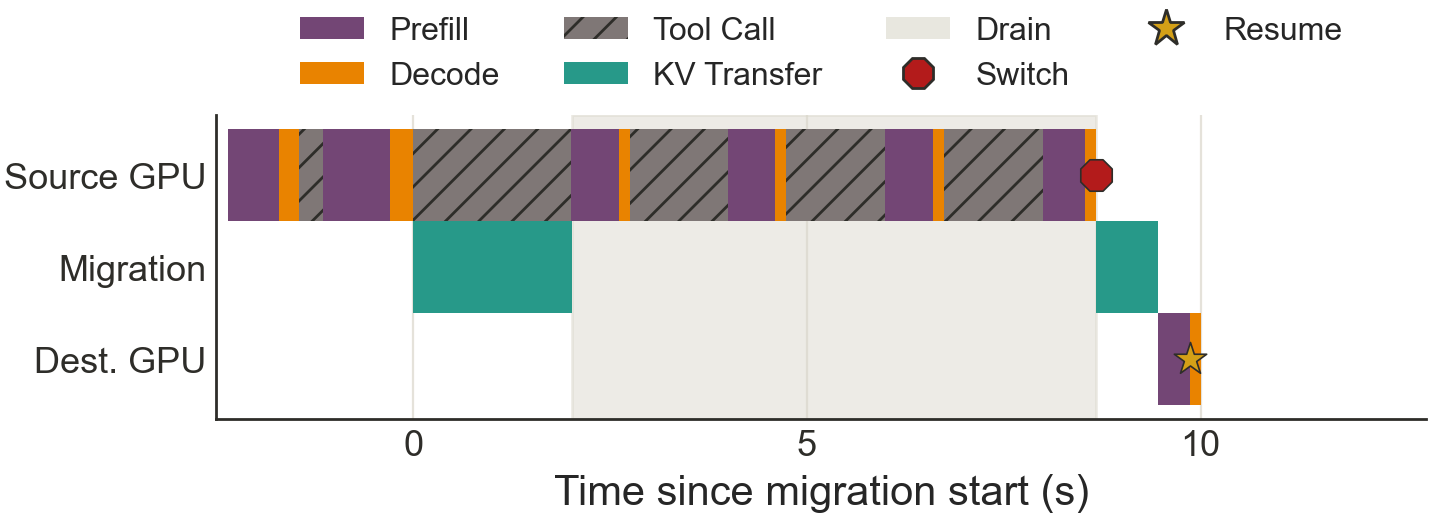
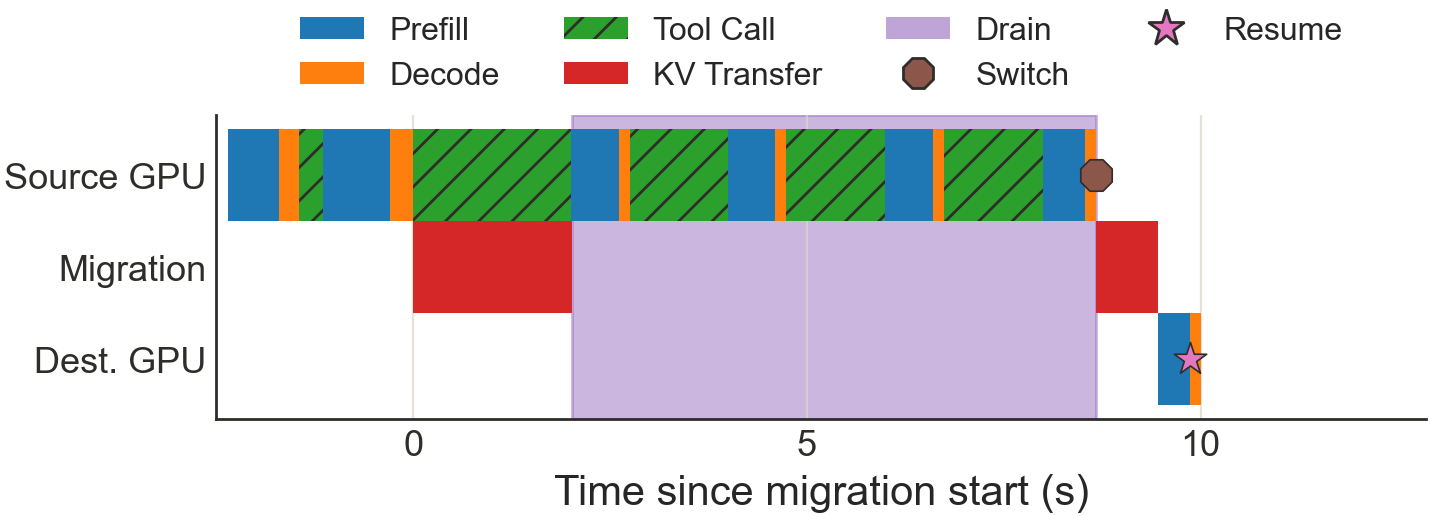
Use tab10 for mechanism Gantt charts

diff --git a/agent-migrate/queue-haul/plot_testbed_kv_timeline.py b/agent-migrate/queue-haul/plot_testbed_kv_timeline.py
@@ -18,6 +18,13 @@ DEFAULT_SCENARIOS = {
     "kv_transfer": "m-0d41d4a3ced809ad",
     "replay": "m-b35dec3b9a228389",
 }
+TAB10 = plt.get_cmap("tab10").colors
+COLORS = {
+    "prefill": TAB10[0], "decode": TAB10[1], "tool": TAB10[2],
+    "kv": TAB10[3], "context": TAB10[3], "drain": TAB10[4],
+    "switch": TAB10[5], "resume": TAB10[6],
+    "text": "#2E2D29", "grid": "#DAD7CB",
+}
 
 
 def _read_csv(path: Path) -> list[dict[str, str]]:
@@ -233,16 +240,7 @@ def plot(timeline_path: Path, inference_path: Path, out: Path) -> None:
         "font.size": 13, "axes.labelsize": 15, "xtick.labelsize": 13,
         "ytick.labelsize": 13, "legend.fontsize": 11.5,
     })
-    colors = {
-        "kv": "#279989",
-        "context": "#4298B5",
-        "drain": "#DAD7CB",
-        "prefill": "#734675",
-        "decode": "#E98300",
-        "tool": "#7F7776",
-        "text": "#2E2D29",
-        "grid": "#DAD7CB",
-    }
+    colors = COLORS
     fig, gantt = plt.subplots(figsize=(7.2, 3))
     transfer_label, transfer_color = ("KV Transfer", "kv") \
         if method == "kv_transfer" else ("Context Transfer", "context")
@@ -308,8 +306,8 @@ def plot(timeline_path: Path, inference_path: Path, out: Path) -> None:
              if segment["location"] == "source"), default=0,
         )
         for time, marker, color, lane in (
-            (source_finish, "8", "#B31B1B", source_y),
-            (float(row["first_token_s"]), "*", "#D4A017", destination_y),
+            (source_finish, "8", colors["switch"], source_y),
+            (float(row["first_token_s"]), "*", colors["resume"], destination_y),
         ):
             gantt.scatter(
                 time, lane, marker=marker, s=150, color=color,
@@ -330,10 +328,10 @@ def plot(timeline_path: Path, inference_path: Path, out: Path) -> None:
         Patch(facecolor=colors[transfer_color], label=transfer_label),
         Patch(facecolor=colors["drain"], alpha=.6, label="Drain"),
         Line2D([], [], marker="8", markersize=12, linestyle="none",
-               markerfacecolor="#B31B1B", markeredgecolor=colors["text"],
+               markerfacecolor=colors["switch"], markeredgecolor=colors["text"],
                label="Switch"),
         Line2D([], [], marker="*", markersize=14, linestyle="none",
-               markerfacecolor="#D4A017", markeredgecolor=colors["text"],
+               markerfacecolor=colors["resume"], markeredgecolor=colors["text"],
                label="Resume"),
     )
     gantt.legend(

diff --git a/agent-migrate/queue-haul/tests/test_testbed_kv_timeline.py b/agent-migrate/queue-haul/tests/test_testbed_kv_timeline.py
@@ -16,15 +16,17 @@ Plausible wrong implementations:
 - Mark a later continuation as the first destination token.
 - Place Switch or Resume markers on the wrong lane or measured event time.
 - Put event-marker labels over the timeline instead of in its legend.
+- Retain bespoke Gantt colors or shift the requested Tab10 semantic order.
 """
 
 import csv
 import json
 
 import pytest
+from matplotlib import pyplot as plt
 
 import plot_testbed_kv_timeline as timeline_plot
-from plot_testbed_kv_timeline import extract, write
+from plot_testbed_kv_timeline import COLORS, extract, write
 
 
 def _csv(path, rows):
@@ -144,6 +146,14 @@ def test_timeline_marks_switch_and_resume_events(tmp_path, monkeypatch):
     assert markers[0] == pytest.approx([2.5, -.32])
     assert markers[1] == pytest.approx([4.15, .32])
     assert [marker.get_sizes()[0] for marker in ax.collections] == [150, 150]
+
+
+def test_gantt_semantics_use_tab10_palette():
+    tab10 = plt.get_cmap("tab10").colors
+    assert [COLORS[name] for name in (
+        "prefill", "decode", "tool", "kv", "drain", "switch", "resume",
+    )] == list(tab10[:7])
+    assert COLORS["context"] == COLORS["kv"]
 
 
 def test_replay_uses_the_same_measured_clock(tmp_path):
